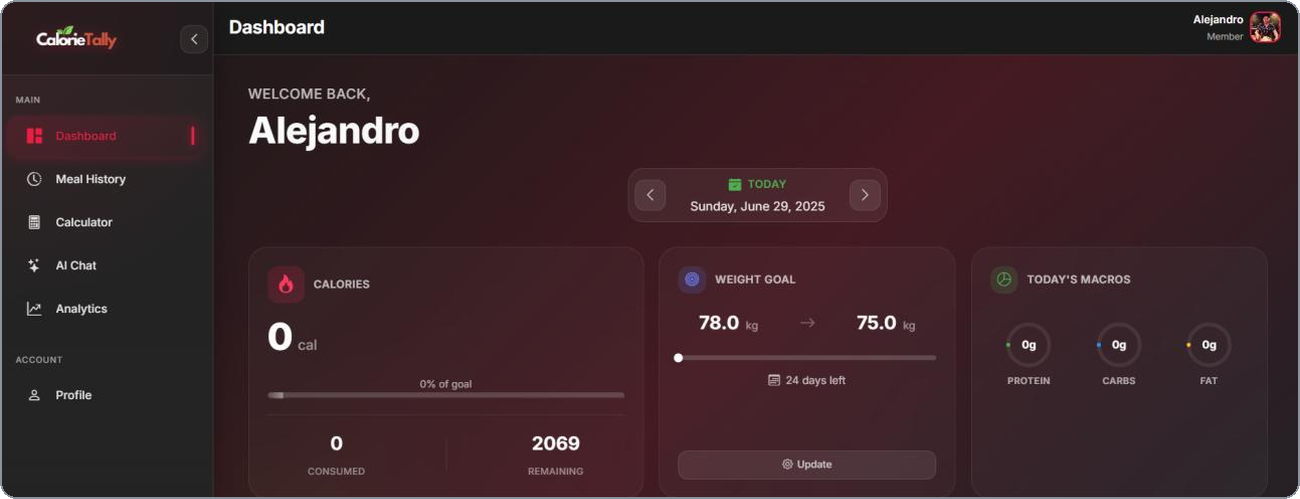
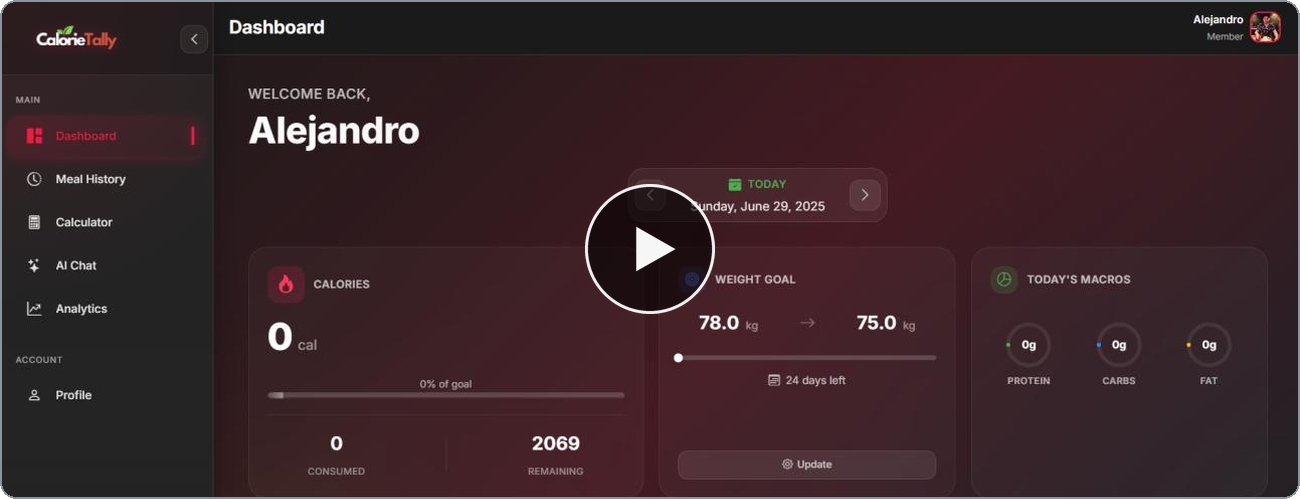
Link CalorieTally and Travelforce tiles to their demo videos
GitHub strips iframes, so a YouTube player cannot embed in a README. Instead each tile with a demo carries a play badge and links to the video, while the product name still links to the live site. OperX has no video, so it keeps a plain screenshot.

Changed region(s): [[0.4308, 0.3607, 0.5538, 0.6313]]

diff --git a/README.md b/README.md
@@ -17,14 +17,14 @@
 <table width="100%">
 <tr>
 <td width="33.33%" valign="top" align="center">
-<a href="https://calorietally.com"><img src="assets/calorietally.png" width="100%" alt="CalorieTally dashboard" /></a>
+<a href="https://www.youtube.com/watch?v=iKG8IfcULN4"><img src="assets/calorietally.png" width="100%" alt="Watch the CalorieTally demo" /></a>
 <br /><br />
 <b><a href="https://calorietally.com">CalorieTally</a></b>
 <br />
 <sub>Log a meal by typing it, saying it, or photographing it. The AI handles the nutrition.</sub>
 </td>
 <td width="33.33%" valign="top" align="center">
-<a href="https://travelforce.app"><img src="assets/travelforce.png" width="100%" alt="Travelforce dashboard" /></a>
+<a href="https://www.youtube.com/watch?v=XtJjQS98rIA"><img src="assets/travelforce.png" width="100%" alt="Watch the Travelforce demo" /></a>
 <br /><br />
 <b><a href="https://travelforce.app">Travelforce</a></b>
 <br />
